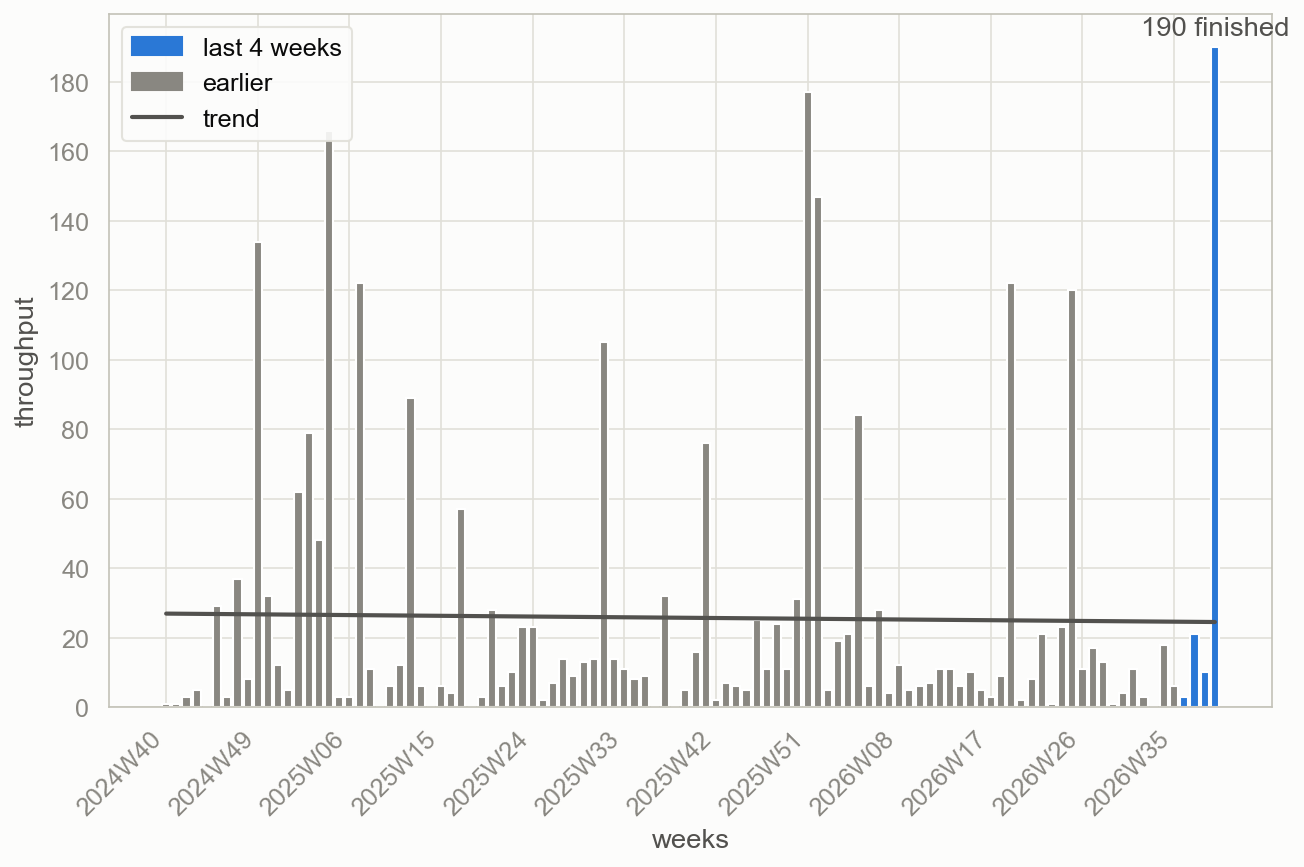
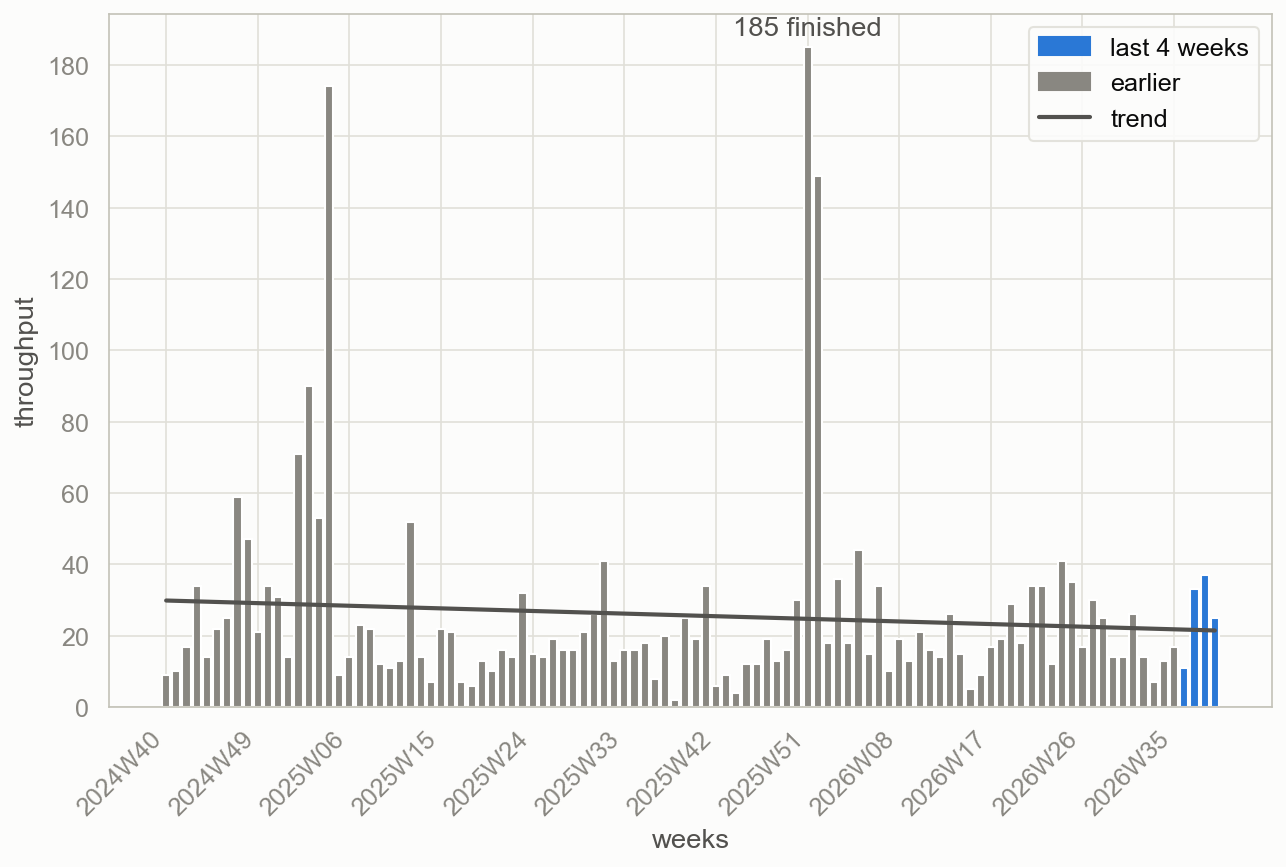
docs(readme): report the check on 12 public trackers

diff --git a/README.md b/README.md
@@ -11,7 +11,7 @@ Every quote below is copied from the report on two years of the public [Hibernat
 
 **1. How much of our open work gets done, and when?**
 
-> At least 22 of the 2093 open issues will be done in 8 weeks, by 28 Nov 2026 (85% chance).
+> At least 47 of the 2093 open issues will be done in 8 weeks, by 28 Nov 2026 (85% chance).
 >
 > *- Hibernate*
 
@@ -19,13 +19,17 @@ The promise counts only issues open today. New work keeps arriving and takes its
 
 **2. Can I trust that number?**
 
-> Past 8-week promises like this one held 9 of 11 times, in line with the 85% promised.
+> Past 8-week promises like this one held only 6 of 11 times, fewer than the 85% promised.
 >
-> Commit to the number, but don't promise a date for all of it; forecast a specific release instead (--forecast-jql).
+> Treat the number as optimistic and commit to fewer, but don't promise a date for all of it; forecast a specific release instead (--forecast-jql).
 >
 > *- Hibernate*
 
-The same forecast is replayed from every past Monday, from only what Jira showed that day, and checked against what happened next. "9 of 11" counts promises whose outcomes don't overlap, so each one is real evidence. An honest 85% promise still misses now and then, so 9 of 11 is judged against chance, not against a fixed 85% cutoff: only a count so low that an honest 85% promise would score it or fewer under 5% of the time (one-sided binomial test) makes the report call the number optimistic and say to commit to fewer. Otherwise it says to commit to the number.
+The same forecast is replayed from every past Monday, from only what Jira showed that day, and checked against what happened next. "6 of 11" counts promises whose outcomes don't overlap, so each one is real evidence. An honest 85% promise still misses now and then, so the count is judged against chance, not against a fixed 85% cutoff: only a count so low that an honest 85% promise would score it or fewer under 5% of the time (one-sided binomial test) makes the report call the number optimistic and say to commit to fewer, as here. A count too high to be chance calls the number cautious; otherwise the report says to commit to the number. A shorter horizon that already fails is heeded too:
+
+> Past 4-week promises of this forecast held only 15 of 23 times, fewer than the 85% promised.
+>
+> *- Kafka*
 
 **3. Will the open list ever clear?**
 
@@ -36,6 +40,15 @@ The same forecast is replayed from every past Monday, from only what Jira showed
 > *- Kafka*
 
 When arrivals keep up with finishes, a list may never return to zero, so the report would rather say "not within 2 years" than invent a date. For a date worth promising, forecast a release or an epic with `--forecast-jql`.
+
+## Checked on 12 public trackers
+
+The forecast was rebuilt and replayed on two years of 12 public Jira trackers: five run by companies (MariaDB, Couchbase, Red Hat WildFly, Percona, Atlassian Confluence), five Apache projects (Spark, Flink, Camel, NiFi, Ignite), plus Hibernate and Kafka.
+
+- **The 8-week promise holds about 7 times in 10, where 85% was promised.** Pooled over all 12, 94 of 132 independent 8-week promises held (71.2%): 41 of 55 on the company-run trackers (74.5%), 38 of 55 on the Apache ones (69%). Both fall short of 85% by more than chance, and 5 of the 12 reports already say so and call their own number optimistic. An earlier check found Hibernate and Kafka in line with 85%; that rested on history from before the fetched window, and with it gone Hibernate holds 6 of 11 at 8 weeks and Kafka 15 of 23 at 4 weeks.
+- **Assuming every finish goes to open work is far worse.** That baseline held 12% of the same 8-week promises.
+- **The fan is too narrow.** Outcomes land far out on both sides of it much more often than they should. It is clearest on the community-run Apache projects, where 44% of outcomes fall in the outer 5% on either side against 10% expected; the company-run trackers show it too, at 36%.
+- **A release forecast says what it doesn't know, but its promises are weak.** Replayed from 1,298 past Mondays on 20 releases, it now reads a finished release as done, and says "not forecastable yet" where it used to fall back on the team's pace, whose dates held 27 of 314 times (9%). What it cannot do is promise a release reliably: its count promises held 66% of the time before the release and 38% after, its clear dates 34-37%, and on 113 Mondays it called a release "not within 2 years" that then cleared. Stragglers and issues added late move a release; take its numbers as a guide, not a commitment.
 
 ## Try it in one minute - no account needed
 
@@ -53,6 +66,8 @@ open output/report.html
 
 Fetch a year of history: the replay needs it to measure how much of the work goes to issues already open, and to have enough past promises to judge. With less, the report says so - the share goes unmeasured, and too few past promises leave the forecast unchecked. The forecast itself needs seven weeks of finishes: the first is left out, since the query may start partway through it.
 
+The history starts where the fetch does: at the earliest resolution date among the fetched issues. A query like the one above also brings in issues closed years ago without a resolution; their finishes are left out of throughput and of the replay rather than stretching the history back to before the window.
+
 ## Get started with your own Jira
 
 ```sh
@@ -65,9 +80,14 @@ Then open `output/report.html`.
 - **Jira Cloud:** also pass `--jira-email you@company.com` together with an API token.
 - **Jira Server / Data Center:** just a personal access token, no email needed.
 - **Public instance?** `--anonymous` needs no credentials at all and figures out Cloud vs Server by itself.
-- **When will this release or epic be done?** Name its issues with `--forecast-jql 'fixVersion = "9.0"'`. With seven weeks or more of its own finishes it is forecast from them, which already leave out the time the team spent on other work, and replayed like the main forecast. If you'd rather state how much of the team works on it, `--forecast-focus 0.5` forecasts at half the team's pace; the report marks that as an assumption it cannot check. With too few finishes of its own, or too few past windows to measure how much of them goes to its open issues, and no focus, the release is not forecast: the whole team's pace and "all finishes go to the open issues" both promised far more than was done. Like the main forecast, the release leads with how many of its open issues get done; the date all of them are done comes second, since a straggler or an issue added late can push it out by months. A finished release reads as done, without a chance.
+- **When will this release or epic be done?** Name its issues with `--forecast-jql 'fixVersion = "9.0"'`. With seven weeks or more of its own finishes it is forecast from them, which already leave out the time the team spent on other work, and replayed like the main forecast. If you'd rather state how much of the team works on it, `--forecast-focus 0.5` forecasts at half the team's pace; the report marks that as an assumption it cannot check. With too few finishes of its own, or too few past windows to measure how much of them goes to its open issues, and no focus, the release is not forecast, and there is no fallback: the report says "not forecastable yet" or "no promise yet" and asks for `--forecast-focus`, since the whole team's pace and "all finishes go to the open issues" both promised far more than was done. Like the main forecast, the release leads with how many of its open issues get done; the date all of them are done comes second, since a straggler or an issue added late can push it out by months. A finished release reads as done, without a chance.
 - **Your workflow ends differently?** Tell it what "finished" means, e.g. `--done-statuses "Resolved, Shipped"`. By default Jira's own status categories decide: statuses in the Done category finish an issue, statuses in To Do are backlog.
-- **Dropped work isn't delivery.** Statuses like `--discarded-statuses "Rejected, Duplicate"` (default: cancelled, canceled, won't do) count neither as throughput nor as open work. The same goes for issues closed with a resolution like Won't Fix or Duplicate - set your own with `--discarded-resolutions "Won't Fix, Out of scope"`.
+- **Dropped work isn't delivery.** Statuses like `--discarded-statuses "Rejected, Duplicate"` (default: cancelled, canceled, won't do) count neither as throughput nor as open work. The same goes for issues closed with a resolution like Won't Fix or Duplicate, and for triage closures such as Obsolete, Timed Out, Low Engagement or Later - `--help` lists them all. Set your own with `--discarded-resolutions "Won't Fix, Out of scope"`; the list replaces the defaults.
+- **A bulk closure is called out.** A week that finishes over 5 times the median week is named, since it inflates the pace. On Hibernate it was a triage sweep, 144 issues closed as Out of Date and 27 as Rejected, resolutions the defaults don't cover:
+
+  > Bulk closure: 2025W51 finished 185 issues, over 5 times the median week's 17.5 (3 more such weeks); it inflates the pace. If these were not delivered, add their resolution to --discarded-resolutions.
+
+  A release that closes its issues in one go trips it too; issues closed as Fixed or Done were delivered, so leave their resolution alone.
 - **Cycle time starts at commitment, not at triage.** It runs from the moment an issue first leaves the backlog; by default, when it first leaves Jira's To Do category; name your pre-work statuses yourself with `--backlog-statuses "Open, Ready"`. Issues closed straight from the backlog have a lead time but no cycle time.
 - **QA has its own name?** Same for the rework metric, e.g. `--testing-statuses "In review, QA"` (default: testing).
 - **Curious how much time is real work vs waiting?** Tell it where work happens, e.g. `--active-statuses "In Progress, In Development"` (default: in progress) - that powers the flow-efficiency number: the share of cycle time spent in those statuses.
@@ -134,20 +154,27 @@ The report names no one. Data on individuals works only as self-assessment that 
 ### The forecast
 
 - **What it predicts.** Of the issues open today, how many get done in the next H weeks, at 85% and at 50%. Each simulation draws past weeks' throughput and a share of finishes that went to issues already open, taken from past H-week windows. The headline promise is the 15th percentile of the done count.
-- **Why a share.** Work is not served first-in, first-out: urgent and short jobs move to the front (Reinertsen, *The Principles of Product Development Flow*, с. 70, PDF 84), so new arrivals take part of every week. A queue's size is only the balance of arrivals and departures (с. 71–72, PDF 85–86), and with both random it may stay far from zero for long periods (Q15, the Diffusion Principle, с. 76–78, PDF 90–92). The baseline, all throughput to open issues, is the old belief, and the replay shows what it costs: on Hibernate it held 2 of 11 independent 8-week promises (14% of 83 past forecasts), against 9 of 11 with the share.
+- **Why a share.** Work is not served first-in, first-out: urgent and short jobs move to the front (Reinertsen, *The Principles of Product Development Flow*, с. 70, PDF 84), so new arrivals take part of every week. A queue's size is only the balance of arrivals and departures (с. 71–72, PDF 85–86), and with both random it may stay far from zero for long periods (Q15, the Diffusion Principle, с. 76–78, PDF 90–92). The baseline, all throughput to open issues, is the old belief, and the replay shows what it costs: on Hibernate it held 2 of 11 independent 8-week promises (13% of 83 past forecasts), against 6 of 11 with the share.
 - **Fixed date, variable scope.** "How much by when" is the question a forecast can answer and check; "when will all of it be done" depends on work not yet asked for (Beck, *Extreme Programming Explained*, 1st ed., PDF 23). The clear date is still shown, from the same simulation, capped at 2 years.
 
 ### The replay
 
 - **Only what was known then.** From every past Monday, each issue's status, resolution and assignee are rolled back through its changelog, so the replay sees reopened and not-yet-created work as it stood that day. A prediction system is valid only if it makes accurate predictions of what it claims to predict, established by comparing it with known data in its environment (Fenton & Pfleeger, *Software Metrics: A Rigorous Approach*, с. 104–105, PDF 117–118). So the replay checks the very forecast the headline shows, with the 85% promise as the acceptance range stated in advance.
-- **Independent outcomes.** Forecasts made a week apart share most of their outcome. Each horizon also counts the promises whose intervals don't overlap; the verdict judges the longest horizon with at least 10 of them, and with fewer it states the count instead of a verdict. "Held 9 of 11" counts those independent promises; the table beside it also gives the share of all past forecasts.
-- **Pace.** The same replay picks which past weeks the forecast draws from - the last 12, 26 or 52 weeks equally, or every week weighted by recency with a half-life of 4 or 8 weeks - by the lowest CRPS, a score of how far past forecasts landed from what happened. Paces within 5% of the best count as equal and the earlier in that list wins. Hibernate forecasts from the last 26 weeks, Kafka from a half-life of 4 weeks.
-- **Bias and drift.** A u-plot per horizon shows whether past forecasts leaned optimistic, pessimistic or too narrow; a y-plot test (after Brocklehurst and Littlewood) shows whether their errors drift over time, tested on independent outcomes only. On Hibernate, 4-week forecast errors drift over time (y-plot p = 0.010): the team's pace changes.
+- **Independent outcomes.** Forecasts made a week apart share most of their outcome. Each horizon also counts the promises whose intervals don't overlap; the verdict judges the longest horizon with at least 10 of them, and with fewer it states the count instead of a verdict; a shorter horizon whose promises already fail is heeded first. "Held 6 of 11" counts those independent promises; the table beside it also gives the share of all past forecasts. A promise of "at least 0" cannot fail, so it is not judged.
+- **Pace.** The same replay picks which past weeks the forecast draws from - the last 12, 26 or 52 weeks equally, or every week weighted by recency with a half-life of 4 or 8 weeks - by the lowest CRPS, a score of how far past forecasts landed from what happened. Paces within 5% of the best count as equal and the earlier in that list wins. Weeks, and the past windows the share is measured over, come only from the fetched history, which starts at the earliest Jira resolution date. Hibernate forecasts from the last 52 weeks, Kafka from a half-life of 4 weeks.
+- **Bias and drift.** A u-plot per horizon shows whether past forecasts leaned optimistic, pessimistic or too narrow; a y-plot test (after Brocklehurst and Littlewood) shows whether their errors drift over time, tested on independent outcomes only. On Hibernate, 4-week forecast errors drift over time (y-plot p = 0.002; at 8 weeks, the horizon judged, y-plot p = 0.007): the team's pace changes.
 - **Recalibration.** When errors keep a steady bias but don't drift, the book's remedy is tried: every past forecast is recalibrated by the u-plot of the forecasts whose outcomes were known by its Monday. It is used only when it also wins on a global score - CRPS standing in for the prequential likelihood Fenton and Pfleeger ask for - and the tile then says so.
 - **The naive baseline.** A clever predictor may barely beat a naive one (Fenton & Pfleeger, Example 3.17, с. 105). So the table shows "baseline (all throughput to open issues)" next to the model, at every horizon.
-- **Clear dates.** Past "all done by D" promises are judged only once D has passed, and only when their intervals don't overlap. On both trackers: 0 judged; all 90 past promises fall beyond the data so far.
+- **Clear dates.** Past "all done by D" promises are judged only once D has passed, and only when their intervals don't overlap. On both trackers: "none of 90 past promises judged; 90 past the 2-year cap and never due."
 
 ![Forecast backtest](docs/images/forecast_backtest.png)
+
+### The check on 12 trackers
+
+- **Held rate.** Each tracker was rebuilt from a saved snapshot and its judged, independent promises pooled. A one-sided binomial test asks whether the pool holds fewer than 85%: at 8 weeks all 12 held 94/132 = 71.2% (p = 4e-5), the company-run five 41/55 = 74.5% (p = 0.03), the Apache five 38/55 = 69% (p = 0.002). At 4 weeks all 12 held 216/276 = 78.3%. The baseline held 12% at 8 weeks.
+- **Spread.** Each past outcome has a u value: the share of the forecast's simulations that came out below it, ties counted half. For a well-made forecast u is uniform, so 15% of outcomes fall below 0.15 and 15% above 0.85. Pooled over all 12 at 8 weeks, 30% fell below and 28% above, and a Kolmogorov-Smirnov test against uniform gives p = 0.0002 (Apache p = 0.011, company-run p = 0.21). In the outer 5% tails, expected 10% together, the Apache trackers have 44% and the company-run 36%. Too many outcomes in both tails means the fan is too narrow, not that it leans one way; the verdict can only say optimistic or cautious, so it does not report this yet.
+- **Releases.** The release forecast was replayed from every Monday from 30 weeks before each of 20 releases up to the snapshot: 1,298 Mondays. States are rolled back, membership is today's. Neighbouring Mondays share most of their outcome, so these are shares, not independent tests.
+- **Caveats.** The trackers share calendar weeks, so pooled promises are not strictly independent. The verdict rejects when either horizon fails at 0.05, so under a well-made forecast it raises a false alarm up to about 10% of the time; MariaDB's 4-week 16 of 23 (p = 0.046) is borderline.
 
 ### Assumptions
 
